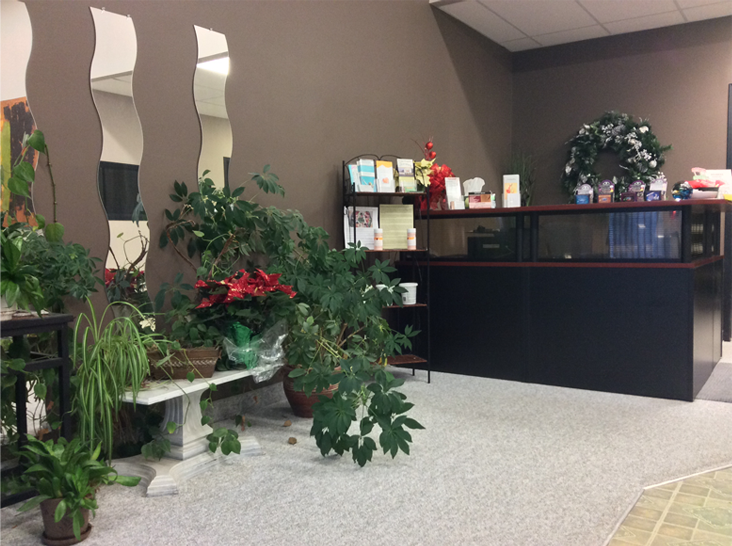
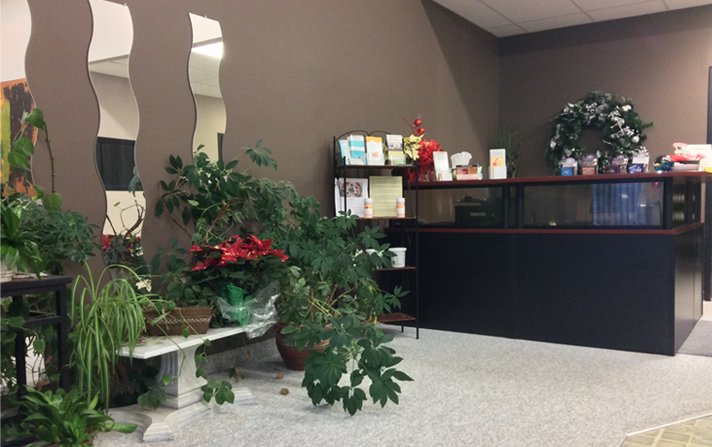
Spelling / Consistency
-Made service pages more consistent (description, how it works,
benefits) and added contact us link near all pricing tables
- Adjusted image sizing issues on /index
- Added images for foot reflexology, other services
- Spelling errors

diff --git a/products/index.html b/products/index.html
@@ -52,7 +52,7 @@
 				<div class="row-fluid">
 					<div class="span12">
 						<h2>Products</h2>
-						<p>Our products consist of a wide variety of products from the leading naturalistic suppliment companies on the planet. We carry a wide variety of suppliments from <strong>Physica</strong>, <strong>AOR</strong>, <strong>Trophic</strong> and <strong>Life Choice</strong>
+						<p>Our products consist of a wide variety of products from the leading naturalistic supplement companies on the planet. We carry a wide variety of supplements from <strong>Physica</strong>, <strong>AOR</strong>, <strong>Trophic</strong> and <strong>Life Choice</strong>
 							both for purchase and for use in our treatment programs. </p><p>We also carry a selection of leading natural skin care products from <strong>Lauressence</strong>, and products from <strong>Heartfelt Living</strong> and <strong>Rocky Mountain</strong>.</p>
 						<p><a href="../contact.html">Contact us</a> for more information on any of our products.</p>
 
@@ -87,7 +87,7 @@
 						<div class="company">
 							<img src="../img/products/lifechoice.png">
 							<h4>Life&nbsp;Choice</h4>
-							<p>Life Choice was founded in 1986 with a commitment to provide the natural health industry and its clientele with supplements of the finest quality.  Still owned and operated by the same naturopathic doctor, the company's original commitment remains unchanged today: The optimal health of the customer must never be compromized.</p>
+							<p>Life Choice was founded in 1986 with a commitment to provide the natural health industry and it's clientele with supplements of the finest quality.  Still owned and operated by the same naturopathic doctor, the company's original commitment remains unchanged today: The optimal health of the customer must never be compromized.</p>
 						</div>
 					</div>
 				</div>
@@ -110,14 +110,14 @@
 						<div class="product">
 							<img src="../img/products/moisturizer_hempseed-neroli.jpg">
 							<h4>Hempseed &amp; Neroli Moisturizer</h4>
-							<p>Description</p>
+							<p>A cream formulated for depleted and dehydrated skin types. This cream feeds, restores and hydrates the skin like an oasis of nutrients for neglected, over-processed or aged skin.</p>
 						</div>
 					</div>
 					<div class="span6">
 						<div class="product">
 							<img src="../img/products/moisturizer_jojoba-lemon.jpg">
 							<h4>Jojoba&nbsp;&amp;&nbsp;Lemon Moisturizer</h4>
-							<p>A cream formulated for depleted and dehydrated skin types. This cream feeds, restores and hydrates the skin like an oasis of nutrients for neglected, over-processed or aged skin.</p>
+							<p>A lightly whipped emulsion created for normal to oily skin types. Can be used day and night to balance and replenish your skin's needs.</p>
 						</div>
 					</div>
 				</div>
@@ -126,14 +126,14 @@
 						<div class="product">
 							<img src="../img/products/moisturizer_tamanu-chamomile.jpg">
 							<h4>Tamanu&nbsp;&amp;&nbsp;Chamomile Moisturizer</h4>
-							<p>This is a moisturizer with tamana and chamomile</p>
+							<p>This light weight cream has all the healing benefits of <strong>Tamanu Balm</strong>. Created for normal and combination skin types.</p>
 						</div>
 					</div>
 					<div class="span6">
 						<div class="product">
 							<img src="../img/products/exfoliant_grapeseed-sandalwood.jpg">
 							<h4>Exfoliant</h4>
-							<p>This Grapeseed and Sandalwood based exfolient leaves skin soft and supple while refining and cleansing pores</p>
+							<p>Leaves skin soft and supple while refining and cleansing pores</p>
 						</div>
 					</div>
 				</div>
@@ -141,8 +141,8 @@
 					<div class="span6">
 						<div class="product">
 							<img src="../img/products/antiaging_tamanu-chamomile.jpg">
-							<h4>Anti-Aging</h4>
-							<p>Made with Tamanu and Chamomile, this lightweight cream has all the healing benefits of Tamanu Blam. Created for normal and combination skin types.</p>
+							<h4>Tamanu&nbsp;Anti-Aging Balm</h4>
+							<p>Developed to repair, restore and replenish dry mature skin. Recommended as a day cream for extremely dry and mature skin types or as a night cream for dry skin types.</p>
 						</div>
 					</div>
 					<div class="span6">
@@ -185,8 +185,8 @@
 						<div class="product">
 							<img src="../img/products/hemphearts.jpg">
 							<h4>Rocky&nbsp;Mountain Hemp&nbsp;Hearts</h4>
-							<p>Nutritional suppliment that is a complete protein source, with essential Omega 3, 6 and 9 fatty acids. Provides more energy than an energy bar - without the sugar, milk, nuts or meat!</p>
-							<p>Contains more Amino Acids than milk, meat or eggs, and more Omega 3 essential fat than any fish. The perfect suppliment for a balanced diet.</p>
+							<p>Nutritional supplement that is a complete protein source, with essential Omega 3, 6 and 9 fatty acids. Provides more energy than an energy bar - without the sugar, milk, nuts or meat!</p>
+							<p>Contains more Amino Acids than milk, meat or eggs, and more Omega 3 essential fat than any fish. The perfect supplement for a balanced diet.</p>
 
 						</div>
 					</div>
@@ -216,6 +216,10 @@
 									<li>Absorbing food particles through the intestinal tract</li>
 									<li>Respiratory health problems</li>
 									<li>Skin problems</li>
+									<ul>
+										<li>Psoriasis</li>
+										<li>Exeema</li>
+									</ul>
 									<li>Increasing bone density</li>
 									<li>A better night's sleep</li>
 								</ul>
@@ -225,18 +229,19 @@
 					<div class="span5">
 						<div class="product">
 							<img src="../img/products/crystal-fine.jpg">
-							<h4>Fine&nbsp;Ground</h4>
-							<p>Short description. Most commonly used for..</p>
+							<h4>Fine&nbsp;Grind</h4>
+							<p>Lower your salt intake the healthy way with the unpolluted, unrefined and mineral rich <strong>Himalayan Crystal Salt</strong>. Due to it's purity you need up to <em>50% less</em>.</p>
 						</div>
 						<div class="product">
 							<img src="../img/products/crystal-coarse.jpg">
-							<h4>Coarse&nbsp;Ground</h4>
-							<p>Short description. Most commonly used for..</p>
+							<h4>Coarse</h4>
+							<p>Perfect for salt grinders with a ceramic grinding stone.</p>
 						</div>
 						<div class="product">
 							<img src="../img/products/crystal-rocks.jpg">
 							<h4>Rocks</h4>
-							<p>Short description. Most commonly used for..</p>
+							<p>Use these <strong>Himalayan Rocks</strong> for making <em>"Sole"</em> or <em>"Brine"</em>. Sole's benefits include relief from athletes foot, itchiness from insect bites, skin conditions like
+								psoriasis, exeema, healing of scars, warts, dental hygiene, cold sores, and so much more.</p>
 						</div>
 					</div>
 				</div>

diff --git a/css/style.css b/css/style.css
@@ -1,1 +1,1 @@
-p{margin-bottom:15px}a{color:#61c6c8;font-weight:700;text-decoration:none}a:visited{color:#41ae89;text-decoration:none}a:active{color:#41ae89;text-decoration:none}a:hover{color:#87d4d5;text-decoration:none}.a-inverse{padding:0 15px}body{background:#c8db72}h1{font-family:'Merienda One',cursive}h2,h3,h4{font-family:Lato,sans-serif}table{margin-top:15px;margin-left:15px}td{padding:1px 5px}li{padding-bottom:8px}.nav li{padding-bottom:0}.dropdown{padding:9px 6px;font-size:1.2em;float:right}.dropdown a{color:#dfdfdf}.p-indent{margin-left:20px}.ul-indent{margin-left:70px}.service-pane{margin-top:15px;padding:0}.service-pane-top{padding:5px 15px;color:#f4f4f4}.service-pane-top img{padding-bottom:10px;padding-top:10px;display:block;margin:auto}.blueDark{background-color:#396e6f}.blue{background-color:#40b4b6}.green{background-color:#41ae89}.sage{background-color:#89bb76}.brown{background-color:#4c4945}.service-pane-top:hover{padding:5px 15px;background-color:#4c4945;color:#dfdfdf}.service-pane-bottom:hover+.service-pane-top{height:200px;padding:5px 15px;background-color:#dfdfdf;color:#4c4945}.service-pane-bottom{padding:15px;font-size:.75em;background-color:#c4c0b5;text-align:center}.header{padding:0 15px;color:#333;background-color:#fff}.content{min-height:500px;padding-bottom:30px;background-color:#f4f4f4;font-size:1.3em;font-family:Lora,serif}.content-padding{padding:10px 25px}.footer-padding{padding:30px}.footer{display:inline-block;text-align:center;min-height:100px;background-color:#4c4945;color:#dfdfdf}.company{background:#4c4945;color:#dfdfdf;font-size:.8em;padding:10px;margin-bottom:15px;min-height:151px}.product{background:#4c4945;color:#dfdfdf;font-size:.8em;padding:10px;margin-bottom:15px;min-height:141px}.company img{float:left;margin-right:10px;padding-bottom:10px}.product img{float:left;margin-right:10px;width:123px;height:141px;padding-bottom:10px}.navbar{margin:0}.navbar-inner{font-family:Lato,sans-serif;padding-left:30px;border-radius:0!important;-moz-border-radius:0!important;-webkit-border-radius:0!important}.dropdown{padding:9px 6px}.img-facebook{margin:15px 8px;float:right}.note{font-size:.8em;font-style:italic}
+p{margin-bottom:15px}a{color:#61c6c8;font-weight:700;text-decoration:none}a:visited{color:#41ae89;text-decoration:none}a:active{color:#41ae89;text-decoration:none}a:hover{color:#87d4d5;text-decoration:none}.a-inverse{padding:0 15px}body{background:#c8db72}h1{font-family:'Merienda One',cursive}h2,h3,h4{font-family:Lato,sans-serif}table{margin-top:15px;margin-left:15px}td{padding:1px 5px}li{padding-bottom:8px}.nav li{padding-bottom:0}.dropdown{padding:9px 6px;font-size:1.2em;float:right}.dropdown a{color:#dfdfdf}.p-indent{margin-left:20px}.ul-indent{margin-left:70px}.ul-padding{padding-left:20px}.service-pane{margin-top:15px;padding:0}.service-pane-top{padding:5px 15px;color:#f4f4f4}.service-pane-top img{padding-bottom:10px;padding-top:10px;display:block;margin:auto}.blueDark{background-color:#396e6f}.blue{background-color:#40b4b6}.green{background-color:#41ae89}.sage{background-color:#89bb76}.brown{background-color:#4c4945}.service-pane-top:hover{padding:5px 15px;background-color:#4c4945;color:#dfdfdf}.service-pane-bottom:hover+.service-pane-top{height:200px;padding:5px 15px;background-color:#dfdfdf;color:#4c4945}.service-pane-bottom{padding:15px;font-size:.75em;background-color:#c4c0b5;text-align:center}.header{padding:0 15px;color:#333;background-color:#fff}.content{min-height:500px;padding-bottom:30px;background-color:#f4f4f4;font-size:1.3em;font-family:Lora,serif}.content-padding{padding:10px 25px}.footer-padding{padding:30px}.footer{display:inline-block;text-align:center;min-height:100px;background-color:#4c4945;color:#dfdfdf}.company{background:#4c4945;color:#dfdfdf;font-size:.8em;padding:10px;margin-bottom:15px;min-height:151px}.product{background:#4c4945;color:#dfdfdf;font-size:.8em;padding:10px;margin-bottom:15px;min-height:141px}.company img{float:left;margin-right:10px;padding-bottom:10px}.product img{float:left;margin-right:10px;width:123px;height:141px;padding-bottom:10px}.navbar{margin:0}.navbar-inner{font-family:Lato,sans-serif;padding-left:30px;border-radius:0!important;-moz-border-radius:0!important;-webkit-border-radius:0!important}.dropdown{padding:9px 6px}.img-facebook{margin:15px 8px;float:right}.note{font-size:.8em;font-style:italic}

diff --git a/services/indian_head_massage.html b/services/indian_head_massage.html
@@ -57,12 +57,23 @@
 							<h2>Indian Head Massage (Champissage)</h2>
 						</p>
 						<p>
-							Traditionally known as Champissage in India, this massage included the head and hair and was practiced by women to promote blood flow to the scalp and healthy hair. Formalization of this technique, by Narendra Metha, was extended to include the neck, shoulders, upper arms and face, not only promoting hair growth, but providing relieve from stress induced aches, pains, eye strain, migraines and lower back pain.
+							Traditionally known as Champissage in India, this massage included the head and hair and was practiced by women to promote blood flow to the scalp and healthy hair. Formalization of this technique, by Narendra Metha, was extended to include the neck, shoulders, upper arms and face.
 						</p>
-						<p>
-
-							 This treatment is preformed overtop of clothes (preferably a T- Shirt) and without the use of oils, while sitting upright, therefore can be done on anyone at anytime. This therapy is highly recommended for individuals who spend hours in front of a computer. 
+						<h3>How it Works</h3>
+						<p class="p-indent">
+							
+							 This treatment is preformed overtop of clothes (preferably a T-Shirt) and without the use of oils, while sitting upright, therefore can be done on anyone at anytime. This therapy is highly recommended for individuals who spend hours in front of a computer. 
 						</p>
+						<h3>Benefits</h3>
+						<ul class="ul-padding">
+							<li>Helps prevent migraines, headaches and back pain.</li>
+							<li>Promotes hair growth.</li>
+							<li>Detoxifies the body by stimulating lymphatic drainage.</li>
+							<li>Relieves sleeplessness, restlessness and insomnia.</li>
+							<li>Relieves symptoms of anxiety and depression.</li>
+							<li>Renews energy levels.</li>
+							<li>Boosts memory capabilities.</li>							
+						</ul>
 					</div>
 
 				</div>

diff --git a/services/msa.html b/services/msa.html
@@ -111,9 +111,6 @@
 									<td>$100</td>
 									<td><span class="note">60 Minute Appointment</span></td>
 								</tr>
-							</table>
-
-							<table>
 								<tr>
 									<td><strong>Follow-Up:</strong></td>
 									<td>15-60 Minutes</td>
@@ -123,7 +120,12 @@
 						</p>
 					</div>
 				</div>
-
+				<div class="row-fluid">
+					<div class="span12">
+						<p>To book an appointment, <a href="../contact.html"> Contact Us!</a></p>
+					</div>
+				</div>
+				
 				<div class="row-fluid">
 					<div class="span12">
 						<h3>History</h3>
@@ -150,7 +152,7 @@
 						</p>
 						<h4>Efficancy of Nutritional Products</h4>
 						<p class="p-indent">
-							The MSA device has been designed to measure vibration, not only of the energy travelling though the various acupuncture meridians but also the energy within a bottle of nutritional supplements or vitamins. By simply placing the bottle of supplements on the plate, we retest and out of balanced point and can determine the effect of the product on your system before you take it. This step not only saves time by eliminating the guess work of which product to take, but it also safes money, because you only take what you can see will work.
+							The MSA device has been designed to measure vibration, not only of the energy travelling though the various acupuncture meridians but also the energy within a bottle of nutritional supplements or vitamins. By simply placing the bottle of supplements on the plate, we retest and out of balanced point and can determine the effect of the product on your system before you take it. This step not only saves time by eliminating the guess work of which product to take, but it also saves money, because you only take what you can see will work.
 						</p>
 
 						<p>

diff --git a/services/foot_reflexology.html b/services/foot_reflexology.html
@@ -57,14 +57,18 @@
 							<h2>Foot Reflexology</h2>
 						</p>
 						<p>
-							Reflexology is a combination of pressure and massage of the feet. Points of the top, bottom and sides of the foot represent various organs, glands and systems of the body. Stimulation of these points help with promoting circulation, increasing metabolism, aids in detoxification and helps reduce stress through relaxation. A half hour treatment is the equivalent of 3 hours of sleep. 
+							Reflexology is a combination of pressure and massage of the feet. Points of the top, bottom and sides of the foot represent various organs, glands and systems of the body.
+						</p>
+						<h3>How it Works</h3>
+						<p class="p-indent">
+							 Stimulation of the reflex points help by promoting circulation, increasing metabolism, aids in detoxification and helps reduce stress through relaxation. A half hour treatment is the equivalent of 3 hours of sleep. 
 						</p>
 					</div>
 				</div>
 				<div class="row-fluid">
 					<div class="span6">
 						<p>
-							<h3>Benefits of Reflexology</h3>
+							<h3>Benefits</h3>
 						</p>
 						<ul>
 							<li><p><strong>Stress: </strong>
@@ -90,12 +94,19 @@
 				<div class="row-fluid">
 					<div class="span12">
 						<h3>Pricing</h3>
-						<table>
-							<tr>
-								<td><strong>50 Minute Treatment:</strong></td>
-								<td>$59</td>
-							</tr>
-						</table>
+						<p>
+							<table>
+								<tr>
+									<td><strong>50 Minute Treatment:</strong></td>
+									<td>$59</td>
+								</tr>
+							</table>
+						</p>
+					</div>
+				</div>
+				<div class="row-fluid">
+					<div class="span12">
+						<p>To book an appointment, <a href="../contact.html"> Contact Us!</a></p>
 					</div>
 				</div>
 			</div>

diff --git a/index.html b/index.html
@@ -51,7 +51,7 @@
 		<div class="content">
 			<div class="content-padding">
 				<div class="row-fluid">
-					<div class="span6">
+					<div class="span12">
 						<h2>Welcome</h2>
 						<p>
 							Circle of Health is independently owned by Joanne Garrison since 2001. Joanne is native to Niagara Falls and is dedicated to providing a quality, alternative health service for area residents. A graduate from the International College of BioEnergetic Medicine, Can-Fit Pro's Nutrition and Wellness Specialist Program and The Ontario College of Reflexology, Joanne was the first MSA technician in the region (trained by BioMeridian International in Salt Lake City, Utah.)
@@ -59,13 +59,21 @@
 						
 						<h2>Our Facility</h2>
 						<p>
-							Some text about the facility and our services
+							We strive to provide you with achievable, affordable ways to assist you with your healthcare goals.
+						</p>
+						<p>
+							 <a href="contact.html">Contact us</a> today for more information on how you can benefit from our services!
 						</p>
 								
 					</div>
+				</div>
+				<div class="row-fluid">
+
 					<div class="span6">
-						<p><img src="img/waiting_area.png" alt="Circle of Health"/></p>
-						<p><img src="img/reception.png" alt="Circle of Health"/></p>
+						<p><img src="img/waiting_area.png" alt="Waiting Room"/></p>
+					</div>
+					<div class="span6">
+						<p><img src="img/reception.png" alt="Reception"/></p>
 					</div>
 				</div>
 			</div>

diff --git a/services/index.html b/services/index.html
@@ -107,6 +107,7 @@
 							<div class="service-pane">
 								<div class="service-pane-top sage">
 									<h4>Indian Head Massage</h4>
+									<img src="../img/services/indian_head_massage.png" alt="">
 								</div>
 								<!--<div class="service-pane-bottom">
 									Learn More
@@ -134,6 +135,7 @@
 							<div class="service-pane">
 								<div class="service-pane-top blueDark">
 									<h4>Other Services</h4>
+									<img src="../img/services/massage_bed.png" alt="">
 								</div>
 								<!--<div class="service-pane-bottom">
 									Learn More

diff --git a/services/auricular_acupuncture.html b/services/auricular_acupuncture.html
@@ -75,7 +75,7 @@
 							Acudetox treatments create a balancing processing that occurs almost immediately. Most people experience a relaxing and centering feeling.
 						</p>	
 						<h3>Benefits</h3>
-						<ul style="padding-left: 20px;">
+						<ul class="ul-padding">
 							<li>Increased calmness</li>
 							<li>Relaxation</li>
 							<li>Reduced anxiety</li>

diff --git a/services/osteopathy.html b/services/osteopathy.html
@@ -76,7 +76,7 @@
 						</p>
 
 						<h3>Benefits of Osteopathy</h3>
-						<ul class="ul-indent">
+						<ul class="ul-padding">
 							<li>Neck and Back Pain</li>
 							<li>Hip, Shoulder and Joint Pain</li>
 							<li>Congestion</li>

diff --git a/services/other.html b/services/other.html
@@ -112,7 +112,7 @@
 					</div>
 				</div>
 
-				<div class="row-fluid">
+				<div class="row-fluid"> 
 					<div class="span12">
 						<p>
 							<h2>Thermal Massage Bed</h2>

diff --git a/less/style.less b/less/style.less
@@ -82,6 +82,10 @@ li {
   margin-left: 70px;
 }
 
+.ul-padding {
+  padding-left: 20px;
+}
+
 /* Service Pane */
 .service-pane {
   margin-top: 15px;
